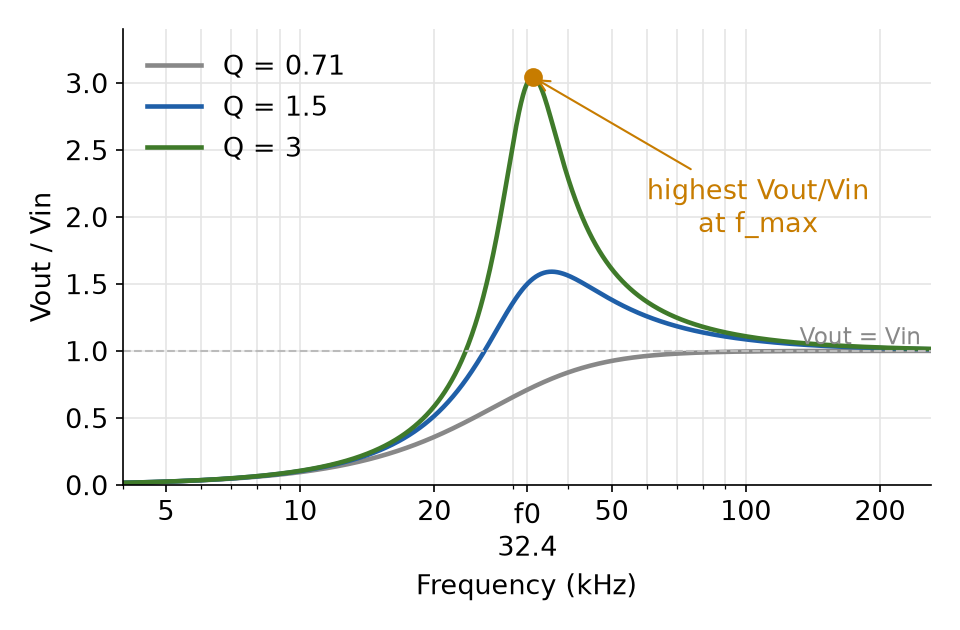
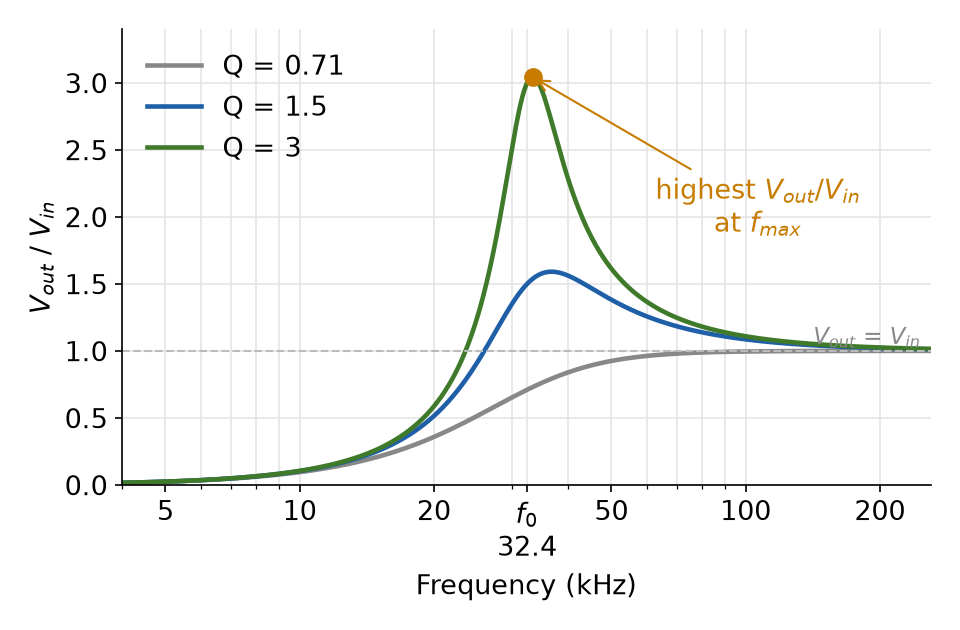
Lab 2 RLC: low-pass/high-pass in one line each on the three-filters slide, band-pass is the main topic; subscripts in RLC figures

diff --git a/tools/content/rlc_slides.py b/tools/content/rlc_slides.py
@@ -1,5 +1,6 @@
-"""Lab 2: five slides that explain the series RLC filters (low-pass, high-pass, and band-pass in detail – the
-theory course does not cover band-pass). Inserted after "Series RLC – one circuit, three filters".
+"""Lab 2: series RLC. Low-pass and high-pass are explained in detail in the RC part, so here they are one line each on
+"Series RLC – one circuit, three filters" (lecturer, 24/10/2026); band-pass is the main topic: three slides (why only a
+band passes, bandwidth, measuring BW), inserted after that slide.
 Run after align_web.py; running again replaces the slides.   Figures: fig_rlc_theory.py."""
 import copy, io, re
 from pptx import Presentation
@@ -59,32 +60,6 @@ def pic(slide, name, x, y, w):
 
 
 SLIDES = [
-    ('Low-pass RLC – output across C', [
-        '**Low frequency:** C is almost an open circuit. Almost no current flows, so almost no voltage is lost on R and L: **V_{out} ≈ V_{in}**.',
-        '**High frequency:** C is almost a short circuit: **V_{out} → 0**. It falls fast: about ÷100 for each ×10 in frequency.',
-        '**Near f_{0}:** L and C pass energy back and forth, so V_{out} can be **bigger than V_{in}**. The highest V_{out}/V_{in} is at f_{max}, a little **below** f_{0}.',
-        '**Bigger Q** (smaller R_{total}) → higher and sharper peak. With Q below 0.71 there is no peak.',
-        '**You measure:** f_{max} and the highest V_{out}/V_{in}.'],
-     [('rlc_lp_curve.png', 7.25, 1.2, 5.7), ('d2_lp.png', 8.6, 5.05, 3.0)],
-     'Low-pass: the output is across the capacitor.\n'
-     'At low frequency the capacitor is almost open. Almost no current flows, so the output is almost equal to the input.\n'
-     'At high frequency the capacitor is almost a short circuit, so the output goes to zero, and it falls fast.\n'
-     'Near f0 something new happens: L and C pass energy back and forth. The output can be bigger than the input. '
-     'Look at the green curve: three times bigger. The highest point is f max, a little below f0.\n'
-     'A bigger Q gives a higher and sharper peak. Q bigger means R total smaller.\n'
-     'Low-pass teams measure f max and the highest Vout over Vin.'),
-    ('High-pass RLC – output across L', [
-        '**Low frequency:** L is almost a short circuit: **V_{out} ≈ 0**.',
-        '**High frequency:** L is almost an open circuit, so all the voltage is on L: **V_{out} ≈ V_{in}**.',
-        '**Near f_{0}:** the same resonance as the low-pass. The highest V_{out}/V_{in} is at f_{max}, a little **above** f_{0}.',
-        '**It is the mirror of the low-pass:** the same peak height, but the peak is on the other side of f_{0}.',
-        '**You measure:** f_{max} and the highest V_{out}/V_{in}.'],
-     [('rlc_hp_curve.png', 7.25, 1.2, 5.7), ('d2_hp.png', 8.6, 5.05, 3.0)],
-     'High-pass: the output is across the inductor.\n'
-     'At low frequency the inductor is almost a short circuit, so the output is almost zero.\n'
-     'At high frequency the inductor is almost open, so all the voltage is on it: the output is equal to the input.\n'
-     'Near f0 we have the same resonance. Now the peak is a little above f0. It is the mirror of the low-pass.\n'
-     'High-pass teams also measure f max and the highest Vout over Vin.'),
     ('Band-pass RLC – why only a band passes', [
         'The output is across **R**: V_{out} = I × R. So V_{out} follows the **current**.',
         '**Below f_{0}:** X_{C} = 1/(2πfC) is big → C blocks → small current.',
@@ -137,9 +112,24 @@ MISTAKES = ['Using 0.707 × V_{in}. Use 0.707 × the **highest V_{out}/V_{in}**.
             'Taking f_{L} and f_{H} from the 9 points of your card: they are too far apart. **Turn the knob.**']
 
 
+OLD = {'Low-pass RLC – output across C', 'High-pass RLC – output across L'}     # removed 24/10/2026
+THREE = ['L = 1 mH, C = 22 nF ∥ 2.2 nF. The same current flows through R, L and C. Where you take the output decides the filter:',
+         'Across **C** → **low-pass**, across **L** → **high-pass**: they work like the RC filters. New: near f_{0} the output '
+         'can be **bigger than V_{in}** (a peak at f_{max}). Low-pass and high-pass teams measure f_{max} and the highest '
+         'V_{out}/V_{in} in Task 2.',
+         'Across **R** → **band-pass**: only a band of frequencies around f_{0} passes. This is new – the next slides explain it.',
+         'Put the output component at the **ground side**, so both probe grounds are on the same node.']
+THREE_SAY = ('One series RLC circuit can make three filters. It depends on where you take the output.\n'
+             'Across C is a low-pass filter, across L is a high-pass filter. They work like the RC filters. '
+             'New: near f0 the output can be bigger than the input: a peak at f max. '
+             'Low-pass and high-pass teams measure f max and the highest Vout over Vin in Task 2.\n'
+             'Across R is a band-pass filter: only a band of frequencies around f0 passes. This is new: the next slides explain it.\n'
+             'Put the output part at the ground side, so both probe grounds are on the same point.')
+
+
 def run():
     p = Presentation(DECK)
-    titles = {t for t, *_ in SLIDES}
+    titles = {t for t, *_ in SLIDES} | OLD
     lst = p.slides._sldIdLst
     for sid, sl in reversed(list(zip(list(lst), list(p.slides)))):          # an earlier run: remove, then add again
         if any(sh.name == 'Title Bar' and sh.text_frame.text.strip() in titles for sh in sl.shapes):
@@ -148,7 +138,16 @@ def run():
     slides = list(p.slides)
     model = next(s for s in slides if any(sh.name == 'Title Bar' and sh.text_frame.text.strip() == AFTER for sh in s.shapes))
     at = slides.index(model) + 1
-    for k, (title, paras, figs, note) in enumerate(SLIDES):
+    tb = next(sh for sh in model.shapes if sh.has_text_frame and 'Where you take the output' in sh.text_frame.text)
+    tf = tb.text_frame
+    for para in tf.paragraphs[1:]:
+        para._p.getparent().remove(para._p)
+    for r in list(tf.paragraphs[0].runs):
+        r._r.getparent().remove(r._r)
+    for k, t in enumerate(THREE):
+        par = tf.paragraphs[0] if k == 0 else tf.add_paragraph(); add_runs(par, t, 16); par.space_after = Pt(8)
+    model.notes_slide.notes_text_frame.text = THREE_SAY
+    for k, (title, paras, figs, note) in enumerate(t for t in SLIDES if t[0] not in OLD):
         s = new_slide(p, model, title)
         if figs:
             text_box(s, 0.55, 1.2, 6.5 if figs[0][1] < 8 else 7.4, 5.7, paras, size=16)

diff --git a/tools/content/fig_rlc_theory.py b/tools/content/fig_rlc_theory.py
@@ -18,9 +18,9 @@ def H(kind, Q, f=f, Rl_share=0.0):
     return np.abs({'LP': zc, 'HP': zl, 'BP': Rt * (1 - Rl_share)}[kind] / z)
 
 
-def axes(ax, ylab='Vout / Vin'):
+def axes(ax, ylab='$V_{out}$ / $V_{in}$'):
     ax.set_xscale('log'); ax.set_xlabel('Frequency (kHz)'); ax.set_ylabel(ylab)
-    ax.set_xticks([5e3, 10e3, 20e3, 32.35e3, 50e3, 100e3, 200e3]); ax.set_xticklabels(['5', '10', '20', 'f0\n32.4', '50', '100', '200'])
+    ax.set_xticks([5e3, 10e3, 20e3, 32.35e3, 50e3, 100e3, 200e3]); ax.set_xticklabels(['5', '10', '20', '$f_0$\n32.4', '50', '100', '200'])
     ax.grid(True, which='both', color='#e5e5e5'); ax.set_xlim(f[0], f[-1])
     for s in ('top', 'right'): ax.spines[s].set_visible(False)
 
@@ -31,9 +31,9 @@ def lp_hp(kind, name):
         ax.plot(f, H(kind, Q), color=c, lw=2.2, label=f'Q = {Q:g}')
     Q = 3.0; k = math.sqrt(1 - 1 / (2 * Q * Q)); fm = F0 * k if kind == 'LP' else F0 / k; pk = Q / math.sqrt(1 - 1 / (4 * Q * Q))
     ax.plot([fm], [pk], 'o', color=OR, ms=8, zorder=5)
-    ax.annotate('highest Vout/Vin\nat f_max', (fm, pk), xytext=(fm * (0.33 if kind == 'LP' else 3.2), pk * (0.92 if kind == 'LP' else 0.62)), color=OR,
+    ax.annotate('highest $V_{out}$/$V_{in}$\nat $f_{max}$', (fm, pk), xytext=(fm * (0.33 if kind == 'LP' else 3.2), pk * (0.92 if kind == 'LP' else 0.62)), color=OR,
                 arrowprops=dict(arrowstyle='->', color=OR), ha='center')
-    ax.axhline(1, color='#bbb', lw=1, ls='--'); ax.text(f[0] * 1.05 if kind == 'LP' else f[-1] / 1.05, 1.05, 'Vout = Vin', color='#888',
+    ax.axhline(1, color='#bbb', lw=1, ls='--'); ax.text(f[0] * 1.05 if kind == 'LP' else f[-1] / 1.05, 1.05, '$V_{out}$ = $V_{in}$', color='#888',
                                                         ha='left' if kind == 'LP' else 'right', fontsize=11)
     axes(ax); ax.set_ylim(0, 3.4); ax.legend(loc='upper right' if kind == 'LP' else 'upper left', frameon=False)
     fig.tight_layout(); fig.savefig(f'{OUT}/{name}.png'); plt.close(fig)
@@ -42,10 +42,10 @@ def lp_hp(kind, name):
 def xlxc():
     fig, ax = plt.subplots(figsize=(6.4, 4.2), dpi=150)
     w = 2 * np.pi * f
-    ax.plot(f, w * L, color=BL, lw=2.4, label='X_L = 2πfL  (grows with f)')
-    ax.plot(f, 1 / (w * C), color=OR, lw=2.4, label='X_C = 1 / (2πfC)  (falls with f)')
+    ax.plot(f, w * L, color=BL, lw=2.4, label='$X_L$ = 2πfL  (grows with f)')
+    ax.plot(f, 1 / (w * C), color=OR, lw=2.4, label='$X_C$ = 1 / (2πfC)  (falls with f)')
     ax.plot([F0], [Z0], 'o', color=G, ms=9, zorder=5)
-    ax.annotate(f'f0: X_L = X_C = Z0 ≈ {Z0:.0f} Ω\nthey cancel → current is maximum', (F0, Z0), xytext=(4.6e3, 3000), color=G,
+    ax.annotate(f'$f_0$: $X_L$ = $X_C$ = $Z_0$ ≈ {Z0:.0f} Ω\nthey cancel → current is maximum', (F0, Z0), xytext=(4.6e3, 3000), color=G,
                 arrowprops=dict(arrowstyle='->', color=G))
     ax.text(5e3, 38, 'C blocks (small current)', color=OR, fontsize=12); ax.text(240e3, 38, 'L blocks (small current)', color=BL, fontsize=12, ha='right')
     axes(ax, 'Reactance (Ω)'); ax.set_yscale('log'); ax.set_ylim(30, 8000); ax.legend(loc='lower center', bbox_to_anchor=(0.5, 0.12), frameon=False, fontsize=11)
@@ -61,16 +61,16 @@ def bp_bw():
     ax.plot(fz, y, color=G, lw=2.4)
     ax.axhline(top, color='#bbb', lw=1, ls='--'); ax.text(61.5e3, top + 0.02, f'highest = {top:.2f}', color='#666', fontsize=11, ha='right')
     ax.axhline(lim, color=OR, lw=1.3, ls='--'); ax.text(61.5e3, lim + 0.02, f'0.707 × highest = {lim:.2f}', color=OR, fontsize=11, ha='right')
-    for x, t, dx in ((fl, 'f_L', -1.2e3), (fh, 'f_H', 1.2e3)):
+    for x, t, dx in ((fl, '$f_L$', -1.2e3), (fh, '$f_H$', 1.2e3)):
         ax.plot([x, x], [0, lim], color=OR, lw=1.2, ls=':'); ax.plot([x], [lim], 'o', color=OR, ms=7)
         ax.text(x + dx, lim + 0.05, t, color=OR, ha='right' if dx < 0 else 'left', fontsize=13, weight='bold')
     ax.plot([F0, F0], [0, top], color='#bbb', lw=1, ls=':')
     ax.annotate('', (fl, lim * 0.45), (fh, lim * 0.45), arrowprops=dict(arrowstyle='<->', color=BL, lw=1.6))
     ax.text(math.sqrt(fl * fh), lim * 0.5, 'BW', color=BL, ha='center', va='bottom', weight='bold')
-    ax.text(22.8e3, 1.0, f'Example: Q = 4\nf_L ≈ {fl/1e3:.1f} kHz\nf_H ≈ {fh/1e3:.1f} kHz\nBW ≈ {(fh-fl)/1e3:.1f} kHz = f0 / Q',
+    ax.text(22.8e3, 1.0, f'Example: Q = 4\n$f_L$ ≈ {fl/1e3:.1f} kHz\n$f_H$ ≈ {fh/1e3:.1f} kHz\nBW ≈ {(fh-fl)/1e3:.1f} kHz = $f_0$ / Q',
             ha='center', va='top', fontsize=11, color='#333', bbox=dict(boxstyle='round', fc='#f3f7f0', ec='#b7cfa8'))
-    ax.set_xlim(15e3, 62e3); ax.set_ylim(0, 1.05); ax.set_xlabel('Frequency (kHz)'); ax.set_ylabel('Vout / Vin')
-    ax.set_xticks([20e3, F0, 40e3, 50e3, 60e3]); ax.set_xticklabels(['20', 'f0 = 32.4', '40', '50', '60'])
+    ax.set_xlim(15e3, 62e3); ax.set_ylim(0, 1.05); ax.set_xlabel('Frequency (kHz)'); ax.set_ylabel('$V_{out}$ / $V_{in}$')
+    ax.set_xticks([20e3, F0, 40e3, 50e3, 60e3]); ax.set_xticklabels(['20', '$f_0$ = 32.4', '40', '50', '60'])
     ax.grid(True, color='#e5e5e5'); [ax.spines[k].set_visible(False) for k in ('top', 'right')]
     fig.tight_layout(); fig.savefig(f'{OUT}/rlc_bp_bw.png'); plt.close(fig)
 
@@ -78,7 +78,7 @@ def bp_bw():
 def bp_q():
     fig, ax = plt.subplots(figsize=(6.4, 4.2), dpi=150)
     for Q, c in ((1.5, GR), (3.0, BL), (6.0, G)):
-        ax.plot(f, H('BP', Q), color=c, lw=2.2, label=f'Q = {Q:g}   (BW = f0/Q ≈ {F0 / Q / 1e3:.0f} kHz)')
+        ax.plot(f, H('BP', Q), color=c, lw=2.2, label=f'Q = {Q:g}   (BW = $f_0$/Q ≈ {F0 / Q / 1e3:.0f} kHz)')
     axes(ax); ax.set_ylim(0, 1.1); ax.legend(loc='upper right', frameon=False, fontsize=11)
     ax.text(4.5e3, 0.55, 'bigger Q →\nnarrower band', color='#333', fontsize=12)
     fig.tight_layout(); fig.savefig(f'{OUT}/rlc_bp_q.png'); plt.close(fig)

diff --git a/tools/content/rc_section.py b/tools/content/rc_section.py
@@ -81,9 +81,10 @@ NOTICE = {
         '→ This circuit is a **high-pass filter**: it passes high frequencies.'],
 }
 OVERVIEW = {'RC filters': ['RC filters', '1st-order low-pass and high-pass', 'Cut-off frequency fc', 'Exercises 1–3, −3 dB point'],
+            'Series RLC': ['Series RLC', 'Resonance f0 and quality factor Q', 'Band-pass and bandwidth BW'],
             'box4': ['Marked tasks (end of the lab)', 'Task 1: RC cut-off (individual)', 'Task 2: series RLC (team)', 'Measure, plot and conclude']}
 BOX4 = ('Lab 2 exercise', 'Practice, then marks', 'Marked tasks (end of the lab)')     # first line of box 4, old or new
-OVERVIEW_SAY = ('Today has 4 parts: RC filters with Exercises 1 to 3 and the minus 3 dB point, capacitors, series RLC, '
+OVERVIEW_SAY = ('Today has 4 parts: RC filters with Exercises 1 to 3 and the minus 3 dB point, capacitors, series RLC with the band-pass filter and its bandwidth, '
                 'and at the end of the lab the marked tasks: Task 1, RC cut-off, individual, and Task 2, series RLC, as a team: '
                 'measure, plot and conclude.\n'
                 'Reminder: at the start, the instruments are in their default state. Before you measure: check 1X or 10X on the '
@@ -260,7 +261,7 @@ def run():
             continue
         paras = [para for para in sh.text_frame.paragraphs if para.runs]
         first = paras[0].runs[0].text if paras else ''
-        lines = OVERVIEW['RC filters'] if first == 'RC filters' else OVERVIEW['box4'] if first in BOX4 else None
+        lines = OVERVIEW.get(first) if first in ('RC filters', 'Series RLC') else OVERVIEW['box4'] if first in BOX4 else None
         if lines:
             assert len(paras) == len(lines), (first, len(paras))
             for para, t in zip(paras, lines):
